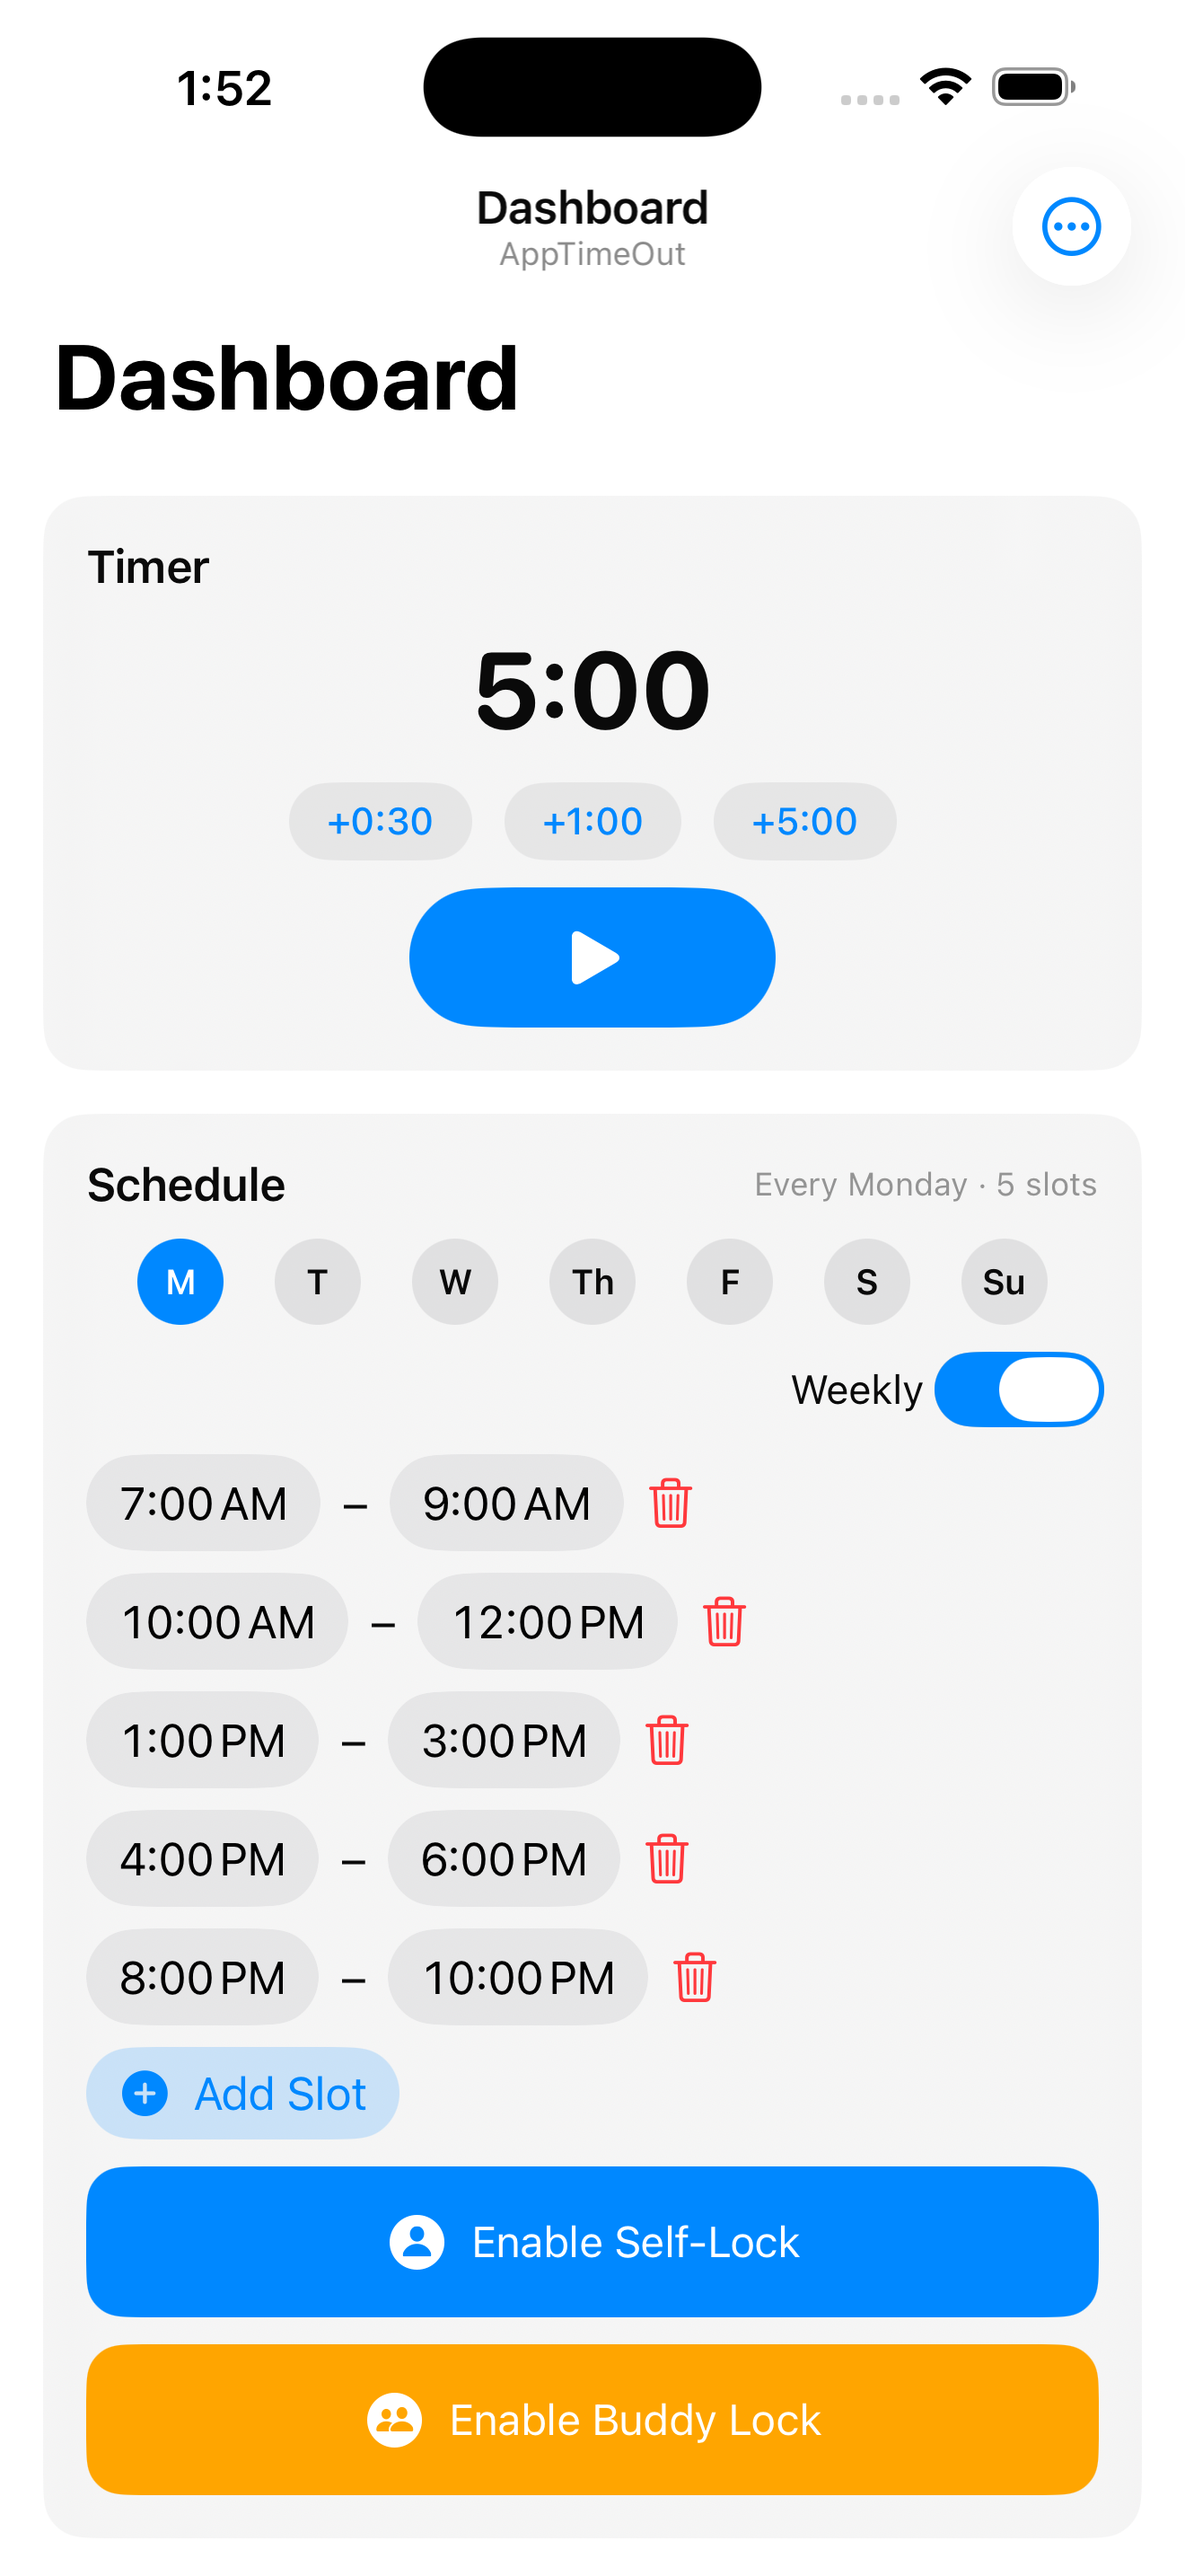
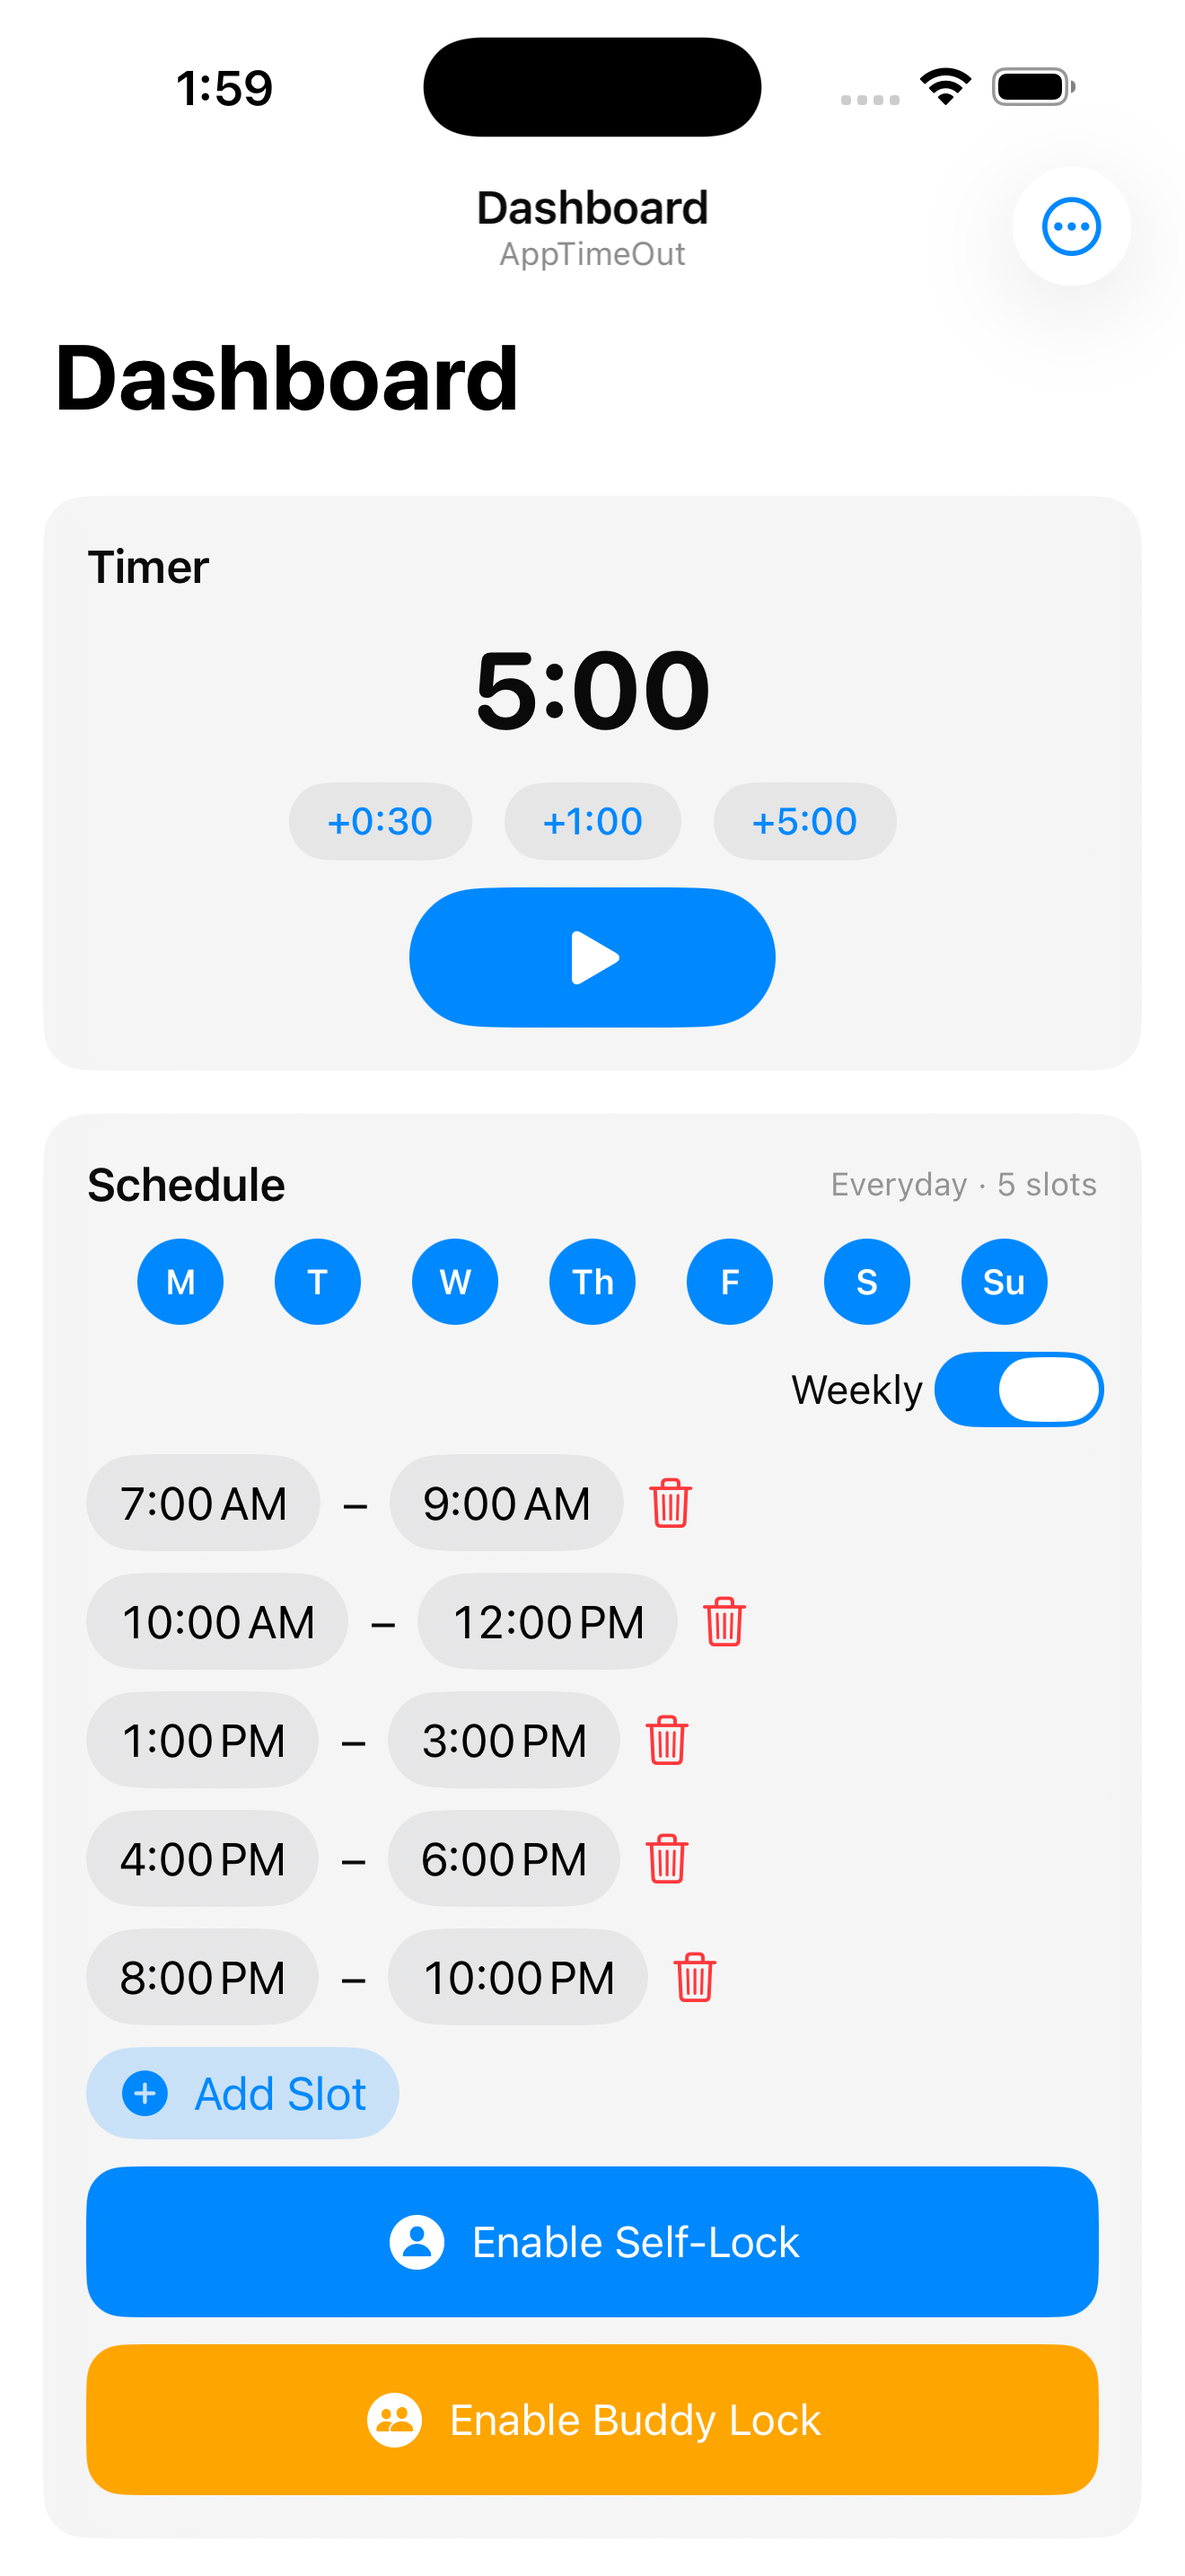
Redesign Home page with hero, benefits strip, feature rows, and use case cards
- Full competitor-style layout: hero headline with gradient, benefits strip,
  alternating feature rows with phone screenshots, use case cards with photos,
  dark privacy banner
- Updated pricing label to '99 cents/mo'
- Removed Contact section, Expected Release banner, and Join the Beta form
- Added App Store download badge (placeholder)
- Responsive mobile breakpoints included

diff --git a/index.html b/index.html
@@ -470,98 +470,302 @@
     <button onclick="showPage('support', this)">Contact Us</button>
   </nav>
 
+  <style>
+    /* ── Home page overrides ── */
+    #page-product {
+      max-width: 100%;
+      margin: 0;
+      padding: 0 0 60px;
+    }
+
+    .home-section {
+      max-width: 960px;
+      margin: 0 auto;
+      padding: 0 24px;
+    }
+
+    /* Hero */
+    .hero {
+      text-align: center;
+      padding: 64px 24px 48px;
+      background: var(--brand-bg);
+    }
+
+    .hero .app-icon { margin-bottom: 16px; }
+    .hero .app-icon img { border-radius: 24px; }
+
+    .hero h1 {
+      font-size: 2.8rem;
+      font-weight: 800;
+      line-height: 1.15;
+      margin: 0 0 12px;
+      letter-spacing: -1px;
+    }
+
+    .hero h1 span {
+      background: linear-gradient(90deg, #FF9500, #FF3B30);
+      -webkit-background-clip: text;
+      -webkit-text-fill-color: transparent;
+      background-clip: text;
+    }
+
+    .hero p {
+      font-size: 1.1rem;
+      color: #555;
+      max-width: 520px;
+      margin: 0 auto 28px;
+    }
+
+    /* Benefits strip */
+    .benefits {
+      display: flex;
+      justify-content: center;
+      gap: 40px;
+      flex-wrap: wrap;
+      padding: 40px 24px;
+      background: #fff;
+      border-top: 1px solid #f0e8d8;
+      border-bottom: 1px solid #f0e8d8;
+    }
+
+    .benefit-item {
+      display: flex;
+      flex-direction: column;
+      align-items: center;
+      gap: 8px;
+      font-size: 0.88rem;
+      color: #444;
+      font-weight: 500;
+    }
+
+    .benefit-item .bi { font-size: 2rem; }
+
+    /* Feature rows */
+    .feature-row {
+      display: flex;
+      align-items: center;
+      gap: 64px;
+      padding: 64px 24px;
+      max-width: 960px;
+      margin: 0 auto;
+    }
+
+    .feature-row.reverse { flex-direction: row-reverse; }
+
+    .feature-row.alt-bg {
+      max-width: 100%;
+      background: #f7f3ec;
+      padding: 64px 0;
+    }
+
+    .feature-row.alt-bg .feature-row-inner {
+      display: flex;
+      align-items: center;
+      gap: 64px;
+      max-width: 960px;
+      margin: 0 auto;
+      padding: 0 24px;
+    }
+
+    .feature-phone {
+      flex-shrink: 0;
+      text-align: center;
+    }
+
+    .feature-phone img {
+      width: 220px;
+      border-radius: 36px;
+      box-shadow: 0 24px 64px rgba(0,0,0,0.15), 0 4px 16px rgba(255,149,0,0.12);
+    }
+
+    .feature-text { flex: 1; min-width: 0; }
+
+    .feature-text h2 {
+      font-size: 1.9rem;
+      font-weight: 800;
+      margin: 0 0 12px;
+      line-height: 1.2;
+      letter-spacing: -0.5px;
+    }
+
+    .feature-text h2 span {
+      background: linear-gradient(90deg, #FF9500, #FF3B30);
+      -webkit-background-clip: text;
+      -webkit-text-fill-color: transparent;
+      background-clip: text;
+    }
+
+    .feature-text p { color: #444; font-size: 1rem; line-height: 1.7; margin: 0 0 20px; }
+
+    .feature-text ul { padding-left: 20px; color: #444; }
+    .feature-text ul li { margin-bottom: 8px; font-size: 0.95rem; }
+
+    /* Use cases */
+    .use-cases-section {
+      padding: 64px 24px;
+      max-width: 960px;
+      margin: 0 auto;
+    }
+
+    .use-cases-section h2 {
+      font-size: 1.9rem;
+      font-weight: 800;
+      text-align: center;
+      margin-bottom: 8px;
+      letter-spacing: -0.5px;
+    }
+
+    .use-cases-section .sub {
+      text-align: center;
+      color: #666;
+      margin-bottom: 36px;
+      font-size: 1rem;
+    }
+
+    .use-case-cards {
+      display: flex;
+      gap: 20px;
+      flex-wrap: wrap;
+    }
+
+    .uc-card {
+      flex: 1;
+      min-width: 240px;
+      background: #fff;
+      border-radius: 18px;
+      padding: 24px;
+      box-shadow: 0 2px 16px rgba(255,149,0,0.10);
+    }
+
+    .uc-card img {
+      width: 56px;
+      height: 56px;
+      border-radius: 50%;
+      object-fit: cover;
+      border: 2px solid var(--brand-tint);
+      margin-bottom: 12px;
+    }
+
+    .uc-card strong { display: block; margin-bottom: 6px; font-size: 0.95rem; }
+    .uc-card p { margin: 0; font-size: 0.875rem; color: #555; line-height: 1.6; }
+
+    /* Privacy banner */
+    .privacy-banner {
+      background: linear-gradient(135deg, #1c1c1e, #2c2c2e);
+      color: #f5f5f7;
+      padding: 56px 24px;
+      text-align: center;
+    }
+
+    .privacy-banner h2 { font-size: 1.7rem; font-weight: 800; margin-bottom: 10px; }
+    .privacy-banner p  { color: #aaa; max-width: 480px; margin: 0 auto; font-size: 0.95rem; }
+
+    /* Responsive */
+    @media (max-width: 640px) {
+      .hero h1 { font-size: 2rem; }
+      .feature-row, .feature-row.alt-bg .feature-row-inner { flex-direction: column; gap: 32px; }
+      .feature-row.reverse { flex-direction: column; }
+      .use-case-cards { flex-direction: column; }
+      .benefits { gap: 24px; }
+    }
+  </style>
+
   <!-- ══════════════════════════════════════════
-       PRODUCT
+       HOME
   ══════════════════════════════════════════ -->
   <div id="page-product" class="page active">
-    <div class="icon">
-      <img src="apptimeout-icon.png" alt="AppTimeOut app icon" width="160" height="160">
-    </div>
 
-    <h1>AppTimeOut</h1>
-    <p class="tagline" style="font-size:1.3rem;font-weight:600;font-style:normal;background:linear-gradient(90deg,#FF9500,#FF3B30);-webkit-background-clip:text;-webkit-text-fill-color:transparent;background-clip:text;">Reclaim your day, reclaim your attention!</p>
-
-    <!-- App Store Download -->
-    <div style="text-align:center;margin-bottom:32px;">
+    <!-- ① HERO -->
+    <div class="hero">
+      <div class="app-icon">
+        <img src="apptimeout-icon.png" alt="AppTimeOut" width="80" height="80">
+      </div>
+      <h1>Reclaim your day,<br><span>reclaim your attention.</span></h1>
+      <p>Block distracting apps and websites with locks that actually hold — even against yourself.</p>
       <a href="https://apps.apple.com/app/apptimeout/id6743812048" target="_blank">
         <img src="https://developer.apple.com/assets/elements/badges/download-on-the-app-store.svg"
-             alt="Download on the App Store" height="54">
+             alt="Download on the App Store" height="50">
       </a>
     </div>
 
-    <!-- Two-column layout: screenshot left, content right -->
-    <div style="display:flex;gap:40px;align-items:flex-start;margin-top:16px;">
+    <!-- ② BENEFITS STRIP -->
+    <div class="benefits">
+      <div class="benefit-item"><span class="bi">🎯</span>Better focus</div>
+      <div class="benefit-item"><span class="bi">🧠</span>Mental clarity</div>
+      <div class="benefit-item"><span class="bi">😴</span>Improved sleep</div>
+      <div class="benefit-item"><span class="bi">💪</span>Stronger habits</div>
+    </div>
 
-      <!-- Left: sticky phone screenshot -->
-      <div style="flex-shrink:0;position:sticky;top:80px;text-align:center;">
-        <img src="Photos/Dashboard.png"
-             alt="AppTimeOut Dashboard"
-             style="width:220px;border-radius:36px;box-shadow:0 24px 64px rgba(0,0,0,0.18),0 4px 16px rgba(255,149,0,0.12);">
+    <!-- ③ FEATURE: Timer & Schedule Lock -->
+    <div class="feature-row">
+      <div class="feature-phone">
+        <img src="Photos/Dashboard.png" alt="AppTimeOut Dashboard">
       </div>
-
-      <!-- Right: all text content -->
-      <div style="flex:1;min-width:0;">
-
-        <h2>Purpose</h2>
+      <div class="feature-text">
+        <h2>Locks that <span>actually hold.</span></h2>
         <p>
-          AppTimeOut blocks distracting apps and websites with locks that actually hold — even against yourself. Add an accountability buddy, and only their code can set you free.
+          Set a Timer Lock for a quick focus session or configure a recurring Schedule Lock for your mornings, work hours, or bedtime. Once active, the lock holds — even if you change your mind.
         </p>
+        <ul>
+          <li>⏱ <strong>Timer Lock</strong> — block for any duration, clears automatically</li>
+          <li>📅 <strong>Schedule Lock</strong> — recurring daily blocks on your schedule</li>
+          <li>🔒 <strong>Self-Lock</strong> — you set it, iOS enforces it</li>
+        </ul>
+      </div>
+    </div>
 
-        <h2>Use Cases</h2>
-        <div style="display:flex;flex-direction:column;gap:16px;margin-bottom:8px;">
+    <!-- ④ FEATURE: Buddy Lock (alt background) -->
+    <div class="feature-row alt-bg">
+      <div class="feature-row-inner">
+        <div class="feature-text">
+          <h2>Blocking that <span>cannot be bypassed.</span></h2>
+          <p>
+            Struggling with "just 5 more minutes"? Enable Buddy Lock and assign a trusted friend or family member. Only their 4-digit code can end the lock early — willpower is no longer the only thing standing between you and your phone.
+          </p>
+          <ul>
+            <li>🤝 Add up to 3 accountability buddies</li>
+            <li>📧 Unlock code delivered to your buddy via email</li>
+            <li>⏰ Codes expire after 24 hours for security</li>
+          </ul>
+        </div>
+        <div class="feature-phone">
+          <img src="Photos/Dashboard.png" alt="Buddy Lock">
+        </div>
+      </div>
+    </div>
 
-          <div style="background:#fff;border-radius:14px;padding:20px 22px;box-shadow:0 1px 8px rgba(255,149,0,0.10);display:flex;gap:16px;align-items:flex-start;">
-            <img src="https://randomuser.me/api/portraits/men/22.jpg" alt="Student"
-                 style="width:56px;height:56px;border-radius:50%;object-fit:cover;flex-shrink:0;border:2px solid var(--brand-tint);">
-            <div>
-              <strong style="display:block;margin-bottom:4px;">📚 The Student — Deep Focus Blocks</strong>
-              <p style="margin:0;font-size:0.9rem;color:#444;">Harry sets a 2-hour Timer Lock before every study session, blocking Instagram, TikTok, and YouTube. When the timer ends, apps unlock automatically — no willpower needed, just results.</p>
-            </div>
-          </div>
+    <!-- ⑤ USE CASES -->
+    <div class="use-cases-section">
+      <h2>Who is it for?</h2>
+      <p class="sub">Anyone who wants to spend less time on their phone — and actually stick to it.</p>
+      <div class="use-case-cards">
 
-          <div style="background:#fff;border-radius:14px;padding:20px 22px;box-shadow:0 1px 8px rgba(255,149,0,0.10);display:flex;gap:16px;align-items:flex-start;">
-            <img src="https://randomuser.me/api/portraits/women/44.jpg" alt="Professional"
-                 style="width:56px;height:56px;border-radius:50%;object-fit:cover;flex-shrink:0;border:2px solid var(--brand-tint);">
-            <div>
-              <strong style="display:block;margin-bottom:4px;">💼 The Professional — Scheduled Work Hours</strong>
-              <p style="margin:0;font-size:0.9rem;color:#444;">Sarah schedules blocks from 9 AM–12 PM and 1 PM–5 PM, Monday through Friday. Distracting apps are automatically locked during work hours and unlocked at lunch and after hours.</p>
-            </div>
-          </div>
-
-          <div style="background:#fff;border-radius:14px;padding:20px 22px;box-shadow:0 1px 8px rgba(255,149,0,0.10);display:flex;gap:16px;align-items:flex-start;">
-            <img src="https://randomuser.me/api/portraits/men/55.jpg" alt="Accountability pair"
-                 style="width:56px;height:56px;border-radius:50%;object-fit:cover;flex-shrink:0;border:2px solid var(--brand-tint);">
-            <div>
-              <strong style="display:block;margin-bottom:4px;">🤝 The Accountability Pair — Buddy Lock</strong>
-              <p style="margin:0;font-size:0.9rem;color:#444;">James and his friend commit to a no-social-media week. James enables Buddy Lock — now only his friend's 4-digit code can unlock the apps early. No more "just 5 minutes."</p>
-            </div>
-          </div>
-
+        <div class="uc-card">
+          <img src="https://randomuser.me/api/portraits/men/22.jpg" alt="Student">
+          <strong>📚 The Student</strong>
+          <p>Harry sets a 2-hour Timer Lock before every study session, blocking Instagram and TikTok. When the timer ends, apps unlock automatically — no willpower needed.</p>
         </div>
 
-        <h2>How It Works</h2>
-        <ul>
-          <li><strong>Choose what to block:</strong> Select the apps and websites you find most distracting.</li>
-          <li><strong>Set a timer or schedule:</strong> Lock for a quick duration or set recurring daily blocks.</li>
-          <li><strong>Self-lock option:</strong> Keep full control — lock clears automatically when time is up.</li>
-          <li><strong>Buddy Lock option:</strong> Require a trusted buddy's code to end the lock early.</li>
-        </ul>
+        <div class="uc-card">
+          <img src="https://randomuser.me/api/portraits/women/44.jpg" alt="Professional">
+          <strong>💼 The Professional</strong>
+          <p>Sarah schedules blocks from 9 AM–12 PM and 1 PM–5 PM, Monday–Friday. Distracting apps lock automatically during work hours and unlock at lunch.</p>
+        </div>
 
-        <h2>Privacy</h2>
-        <p>Your data stays on your device. AppTimeOut collects nothing — no personal info, no browsing history, no tracking.</p>
+        <div class="uc-card">
+          <img src="https://randomuser.me/api/portraits/men/55.jpg" alt="Accountability pair">
+          <strong>🤝 The Committed Pair</strong>
+          <p>James enables Buddy Lock with his friend. Now only his friend's code can unlock the apps early. No more sneaking back to social media.</p>
+        </div>
 
       </div>
     </div>
 
-    <!-- Responsive: stack on mobile -->
-    <style>
-      #page-product { max-width: 960px; }
-      @media (max-width: 640px) {
-        #page-product { max-width: 720px; }
-        #page-product > div[style*="display:flex"] { flex-direction: column; align-items: center; }
-        #page-product > div[style*="display:flex"] > div[style*="position:sticky"] { position: static; }
-      }
-    </style>
+    <!-- ⑥ PRIVACY BANNER -->
+    <div class="privacy-banner">
+      <h2>🔐 Your privacy, respected.</h2>
+      <p>AppTimeOut never tracks your browsing or collects personal data beyond what you provide. Unlock codes are generated in-memory and never stored.</p>
+    </div>
 
   </div>
 
